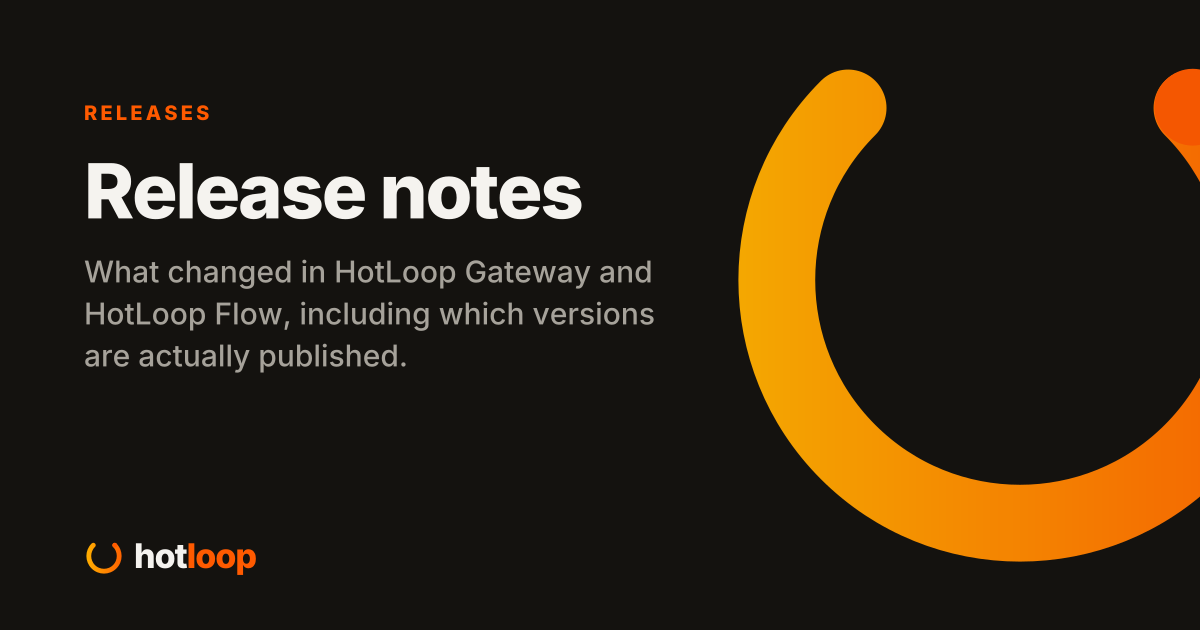
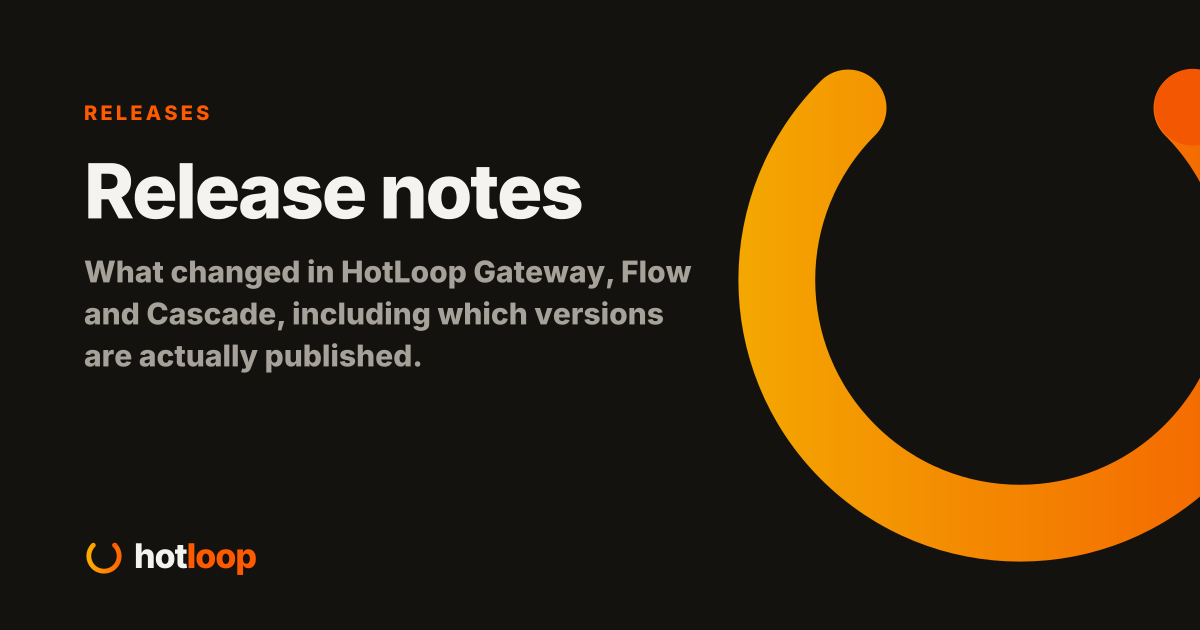
cascade 0.1.1 is out, so its page and release notes say so and carry the pull and install commands (#20)
The page still said release candidate and nothing to pull. It's released now, so the page, the home card and the feed say so, there's a /releases/cascade/ page, and the commands are on it. The registry is private and the page says that too.

Changed region(s): [[0.0617, 0.3921, 0.5858, 0.6032]]

diff --git a/src/pages/releases/rss.xml.ts b/src/pages/releases/rss.xml.ts
@@ -12,11 +12,11 @@ export async function GET(context: APIContext) {
       b.data.date.getTime() - a.data.date.getTime() ||
       b.data.version.localeCompare(a.data.version, undefined, { numeric: true }),
   );
-  const NAME = { gateway: 'HotLoop Gateway', flow: 'HotLoop Flow' } as const;
+  const NAME = { gateway: 'HotLoop Gateway', flow: 'HotLoop Flow', cascade: 'HotLoop Cascade' } as const;
 
   return rss({
     title: 'HotLoop release notes',
-    description: 'What changed in HotLoop Gateway and HotLoop Flow, including which versions are actually published.',
+    description: 'What changed in HotLoop Gateway, HotLoop Flow and HotLoop Cascade, including which versions are actually published.',
     site: context.site!,
     items: releases.map((r) => ({
       title: `${NAME[r.data.product]} ${r.data.version}${r.data.published ? '' : ' (merged, never published on its own)'}`,

diff --git a/src/lib/products.ts b/src/lib/products.ts
@@ -148,7 +148,7 @@ export const GATEWAY_FEATURES: Feature[] = [
 ];
 
 // Cascade is its own product and is not one of the four from the shared codebase,
-// so it lives beside PRODUCTS. It has no 0.1.0 yet: 0.1.0-rc.8 is a published
-// pre-release, and the repository and image stay private until 0.1.0 is verified
-// on a real Podman host and a real k3s cluster.
-export const CASCADE_RC = '0.1.0-rc.8';
+// so it lives beside PRODUCTS. 0.1.1 is its first release. A 0.1.0 tag exists and
+// never published anything. The repository and the registry are private.
+// Change it here when the next release ships.
+export const CASCADE = '0.1.1';

diff --git a/src/content.config.ts b/src/content.config.ts
@@ -83,7 +83,7 @@ const nodes = defineCollection({
 const releases = defineCollection({
   loader: glob({ pattern: '**/*.md', base: 'src/content/releases' }),
   schema: z.object({
-    product: z.enum(['gateway', 'flow']),
+    product: z.enum(['gateway', 'flow', 'cascade']),
     version: z.string().regex(/^\d+\.\d+\.\d+$/),
     date: z.coerce.date(),
     // A merged version that has never been tagged or published must say so.

diff --git a/src/content/releases/cascade/0.1.1.md b/src/content/releases/cascade/0.1.1.md
@@ -1,0 +1,21 @@
+---
+product: cascade
+version: "0.1.1"
+date: 2026-10-20
+published: true
+summary: "The first Cascade release. A workflow engine in one static Go binary where every step is checkpointed, so a kill -9 in the middle of a run picks up where it left off."
+highlights:
+  - "The engine: every step checkpointed, durable waits, retries, error ports and error workflows. Expressions, and a Code step that runs JavaScript in its own jail in its own process."
+  - "Webhooks with a durable inbox, schedules that fire each slot exactly once no matter how many mains are looking, MQTT, and a trigger for files that land in a directory. An HTTP step for anything with an API, and connectors for HotLoop, Postgres, ERPNext, email, ntfy, Gotify and Discord. No others, on purpose."
+  - "A credential vault with key rotation, OAuth2 for every grant a plant needs, sign-in with passwords, TOTP, passkeys or your OpenID Connect provider, enforced MFA, projects and roles, an audit log you can verify, every save kept as a version, and a scoped API with an OpenAPI document."
+  - "Metrics, traces and probes, so somebody besides me can tell when it's stuck."
+  - "SQLite on one box or Postgres with workers when you need more. The editor is baked into the binary, so there is nothing else to run."
+  - "Podman with Quadlet units that follow :stable and roll an update back if it doesn't come up healthy, or k3s with the Helm chart, standalone or split into server and workers."
+breaking: []
+---
+
+Pull it with `podman pull ghcr.io/hotloop-io/hotloop-cascade:0.1.1`, or install the chart with `helm install cascade oci://ghcr.io/hotloop-io/charts/hotloop-cascade --version 0.1.1`. The image is amd64 and arm64, and the tags are 0.1.1, 0.1, 0, latest and stable. The registry is private, so run `podman login ghcr.io` as root once or the pull fails and the box stays on what it has.
+
+There was a 0.1.0 tag and it never published anything. Its chart test failed on a hosted runner and I cancelled the run, so nothing reached the registry, and a tag stays where it is. 0.1.1 is the same code with the test fixed. It checked the upgrade by listing pods while the old ones were still stopping, which a quiet laptop never shows.
+
+Migrations only go forward. A rollback puts the old image back and does not un-migrate your database, so take a backup before you turn updates on. Lose the key that seals stored credentials and every stored credential is unreadable, so keep a copy somewhere that isn't the box. Not here yet: SAML, LDAP, SCIM, environments, the HA scheduler with leases, more connectors and AI steps. That is 0.2.0 and on.
